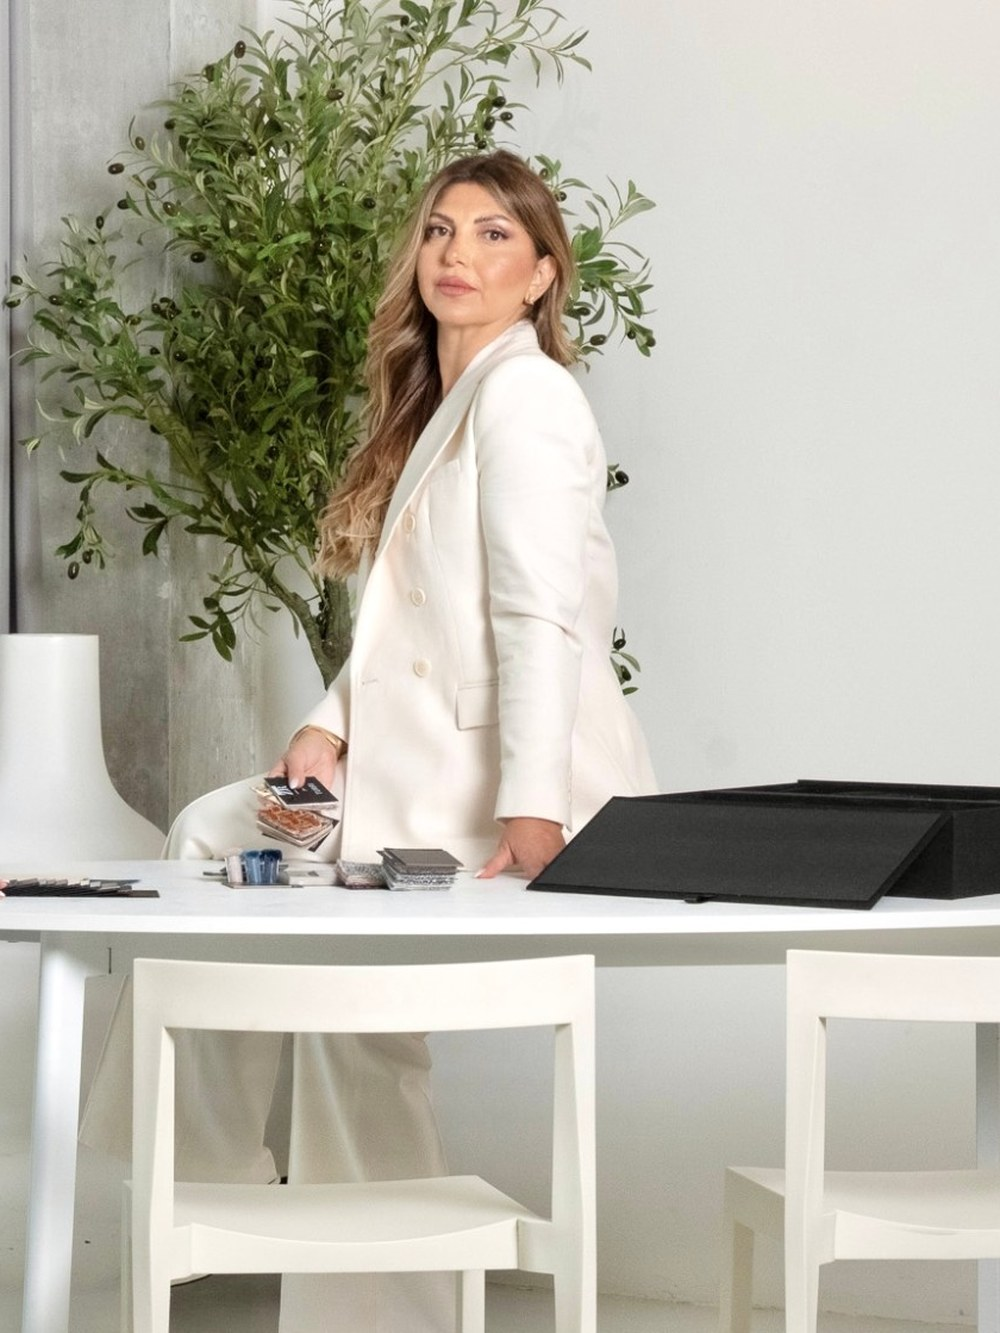
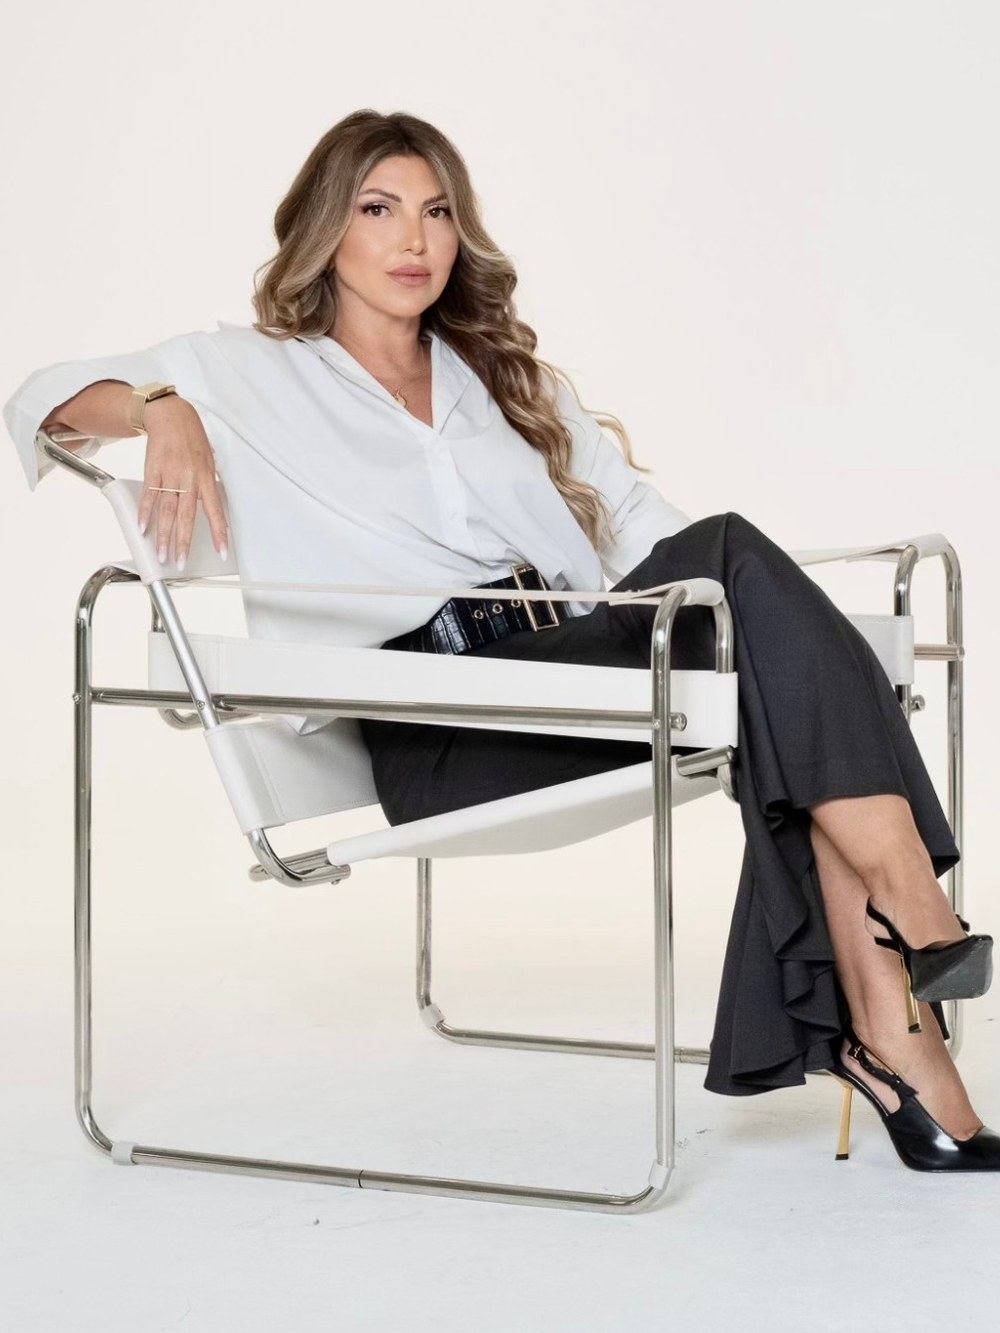
Update founder imagery: new Joelle portrait, leaders shot on About, table shot on Contact
- Joelle's portrait replaced with the new solo (full figure, minimal headspace).
- About story image now uses the 'leaders' together shot (portrait 4:5 frame).
- Contact page image now uses the table together shot (landscape frame), replacing
  the placeholder render.

Claude-Session: https://claude.ai/code/session_01MA6AARB7kgMtULQSmpxjmu

diff --git a/ui_kits/website/data.js b/ui_kits/website/data.js
@@ -206,13 +206,15 @@
     press: PRESS,
 
     /* A wide "together" portrait of the two founders, for the About page. */
-    teamPhoto: '../../assets/team/founders.jpg?v=1',
+    teamPhoto: '../../assets/team/founders.jpg?v=2',
+    /* Wide 'together' shot for the contact page. */
+    contactPhoto: '../../assets/team/founders-table.jpg?v=1',
 
     team: [
       /* The studio is the two sisters — no wider team. Portraits supplied by the
          studio; paths are relative to ui_kits/website/. */
       { name: 'Jinane Touma', role: 'Co-Founder', studio: 'JWT Design Studio', img: '../../assets/team/jinane.jpg?v=3' },
-      { name: 'Joelle Touma', role: 'Co-Founder · Interior Architect', studio: 'JWT Design Studio', img: '../../assets/team/joelle.jpg?v=2' },
+      { name: 'Joelle Touma', role: 'Co-Founder · Interior Architect', studio: 'JWT Design Studio', img: '../../assets/team/joelle.jpg?v=3' },
     ],
 
     /* Intentionally empty — no invented awards or client quotes.

diff --git a/ui_kits/website/index.html b/ui_kits/website/index.html
@@ -27,14 +27,14 @@
 <script src="projects-data.js?v=3"></script>
 <script src="review-overrides.js?v=2"></script>
 <script src="press-data.js?v=1"></script>
-<script src="data.js?v=14"></script>
+<script src="data.js?v=15"></script>
 <script type="text/babel" src="kit-ui.jsx?v=3"></script>
 <script type="text/babel" src="HomePage.jsx?v=9"></script>
-<script type="text/babel" src="AboutPage.jsx?v=5"></script>
+<script type="text/babel" src="AboutPage.jsx?v=6"></script>
 <script type="text/babel" src="ExpertisePage.jsx?v=4"></script>
 <script type="text/babel" src="ProjectsPage.jsx?v=5"></script>
 <script type="text/babel" src="ProjectPage.jsx?v=9"></script>
-<script type="text/babel" src="ContactPage.jsx?v=6"></script>
+<script type="text/babel" src="ContactPage.jsx?v=7"></script>
 <script type="text/babel" src="PressPage.jsx?v=1"></script>
 
 <script type="text/babel">

diff --git a/ui_kits/website/ContactPage.jsx b/ui_kits/website/ContactPage.jsx
@@ -102,8 +102,8 @@
 
             {/* Details + image */}
             <aside style={{ display: 'flex', flexDirection: 'column', gap: 'var(--space-6)' }}>
-              <div style={{ aspectRatio: '4 / 5', borderRadius: 'var(--radius-md)', overflow: 'hidden' }}>
-                <img src={window.JWT_IMG.ronKitchen} alt="" style={{ width: '100%', height: '100%', objectFit: 'cover' }} />
+              <div style={{ aspectRatio: '3 / 2', borderRadius: 'var(--radius-md)', overflow: 'hidden' }}>
+                <img src={D.contactPhoto} alt={`${D.studio.founders}, JWT Design Studio`} style={{ width: '100%', height: '100%', objectFit: 'cover' }} />
               </div>
               <div style={{ display: 'flex', flexDirection: 'column', gap: 'var(--space-4)' }}>
                 <Detail label="Email" value={<EmailValue />} />

diff --git a/ui_kits/website/AboutPage.jsx b/ui_kits/website/AboutPage.jsx
@@ -22,7 +22,7 @@
         {/* Portrait + story */}
         <Section bg="page" pad="sm" style={{ paddingTop: 0 }}>
           <div className="jwt-rg" style={{ display: 'grid', gridTemplateColumns: '1fr 1fr', gap: 'var(--space-8)', alignItems: 'center' }}>
-            <RevealImage style={{ aspectRatio: '3 / 2', borderRadius: 'var(--radius-md)' }}>
+            <RevealImage style={{ aspectRatio: '4 / 5', borderRadius: 'var(--radius-md)' }}>
               <img src={D.teamPhoto} alt={`${D.studio.founders}, founders of JWT Design Studio`} style={{ width: '100%', height: '100%', objectFit: 'cover' }} />
             </RevealImage>
             <div>
